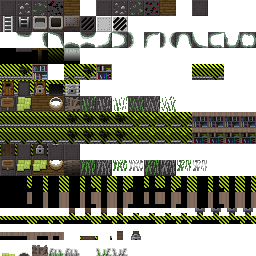
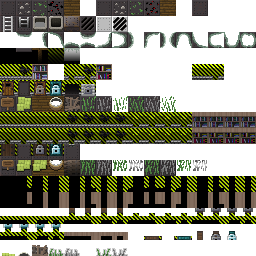
수정문 깨짐 수정, 6계층 수정문 이미지 추가

diff --git a/core/src/main/java/com/shatteredpixel/shatteredpixeldungeon/actors/hero/HeroClass.java b/core/src/main/java/com/shatteredpixel/shatteredpixeldungeon/actors/hero/HeroClass.java
@@ -289,14 +289,14 @@ public enum HeroClass {
 		//new TacticalHandgun().collect();
 		//new TacticalHandgunAP().identify().collect();
 		//new TacticalHandgunHP().identify().collect();
-		new Teleporter().collect();
-		new TestWeapon().identify().collect();
-		new PotionOfHealing().quantity(100).collect();
-		new PlateArmor().identify().upgrade(100).collect();
-		new RingOfMight().identify().upgrade(100).collect();
-		new RingOfAccuracy().identify().upgrade(100).collect();
-		new ScrollOfIdentify().quantity(100).collect();
-		new PotionOfMindVision().identify().quantity(100).collect();
+		//new Teleporter().collect();
+		//new TestWeapon().identify().collect();
+		//new PotionOfHealing().quantity(100).collect();
+		//new PlateArmor().identify().upgrade(100).collect();
+		//new RingOfMight().identify().upgrade(100).collect();
+		//new RingOfAccuracy().identify().upgrade(100).collect();
+		//new ScrollOfIdentify().quantity(100).collect();
+		//new PotionOfMindVision().identify().quantity(100).collect();
 		//new DriedRose().identify().upgrade(10).collect();
 		//new CrudePistol().identify().collect();
 		//new SubMachinegun().identify().collect();

diff --git a/core/src/main/java/com/shatteredpixel/shatteredpixeldungeon/levels/Terrain.java b/core/src/main/java/com/shatteredpixel/shatteredpixeldungeon/levels/Terrain.java
@@ -59,9 +59,9 @@ public class Terrain {
 
 	public static final int WATER		    = 29;
 
-	public static final int CUSTOM_TILE_1	= 31;
-	public static final int CUSTOM_TILE_2	= 32;
-	public static final int CUSTOM_TILE_3	= 33;
+	public static final int CUSTOM_TILE_1	= 32;
+	public static final int CUSTOM_TILE_2	= 33;
+	public static final int CUSTOM_TILE_3	= 34;
 
 	public static final int PASSABLE		= 0x01;
 	public static final int LOS_BLOCKING	= 0x02;
